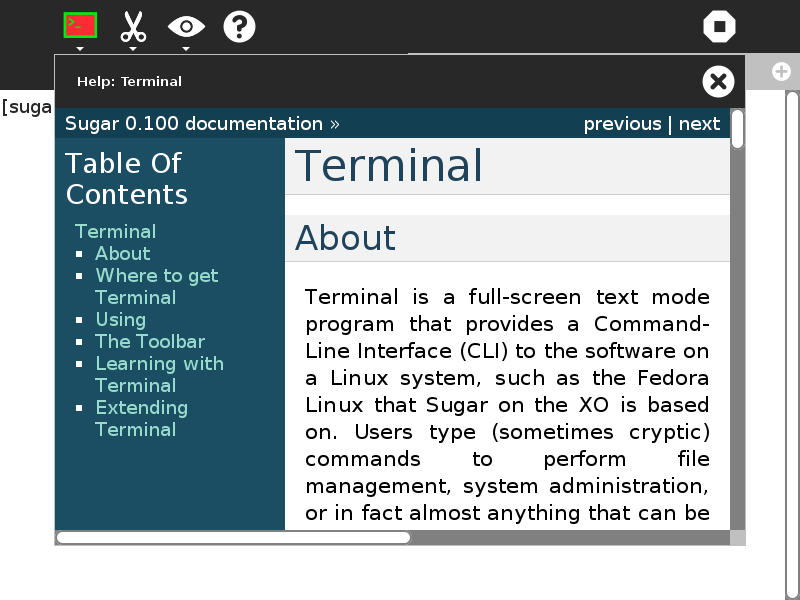
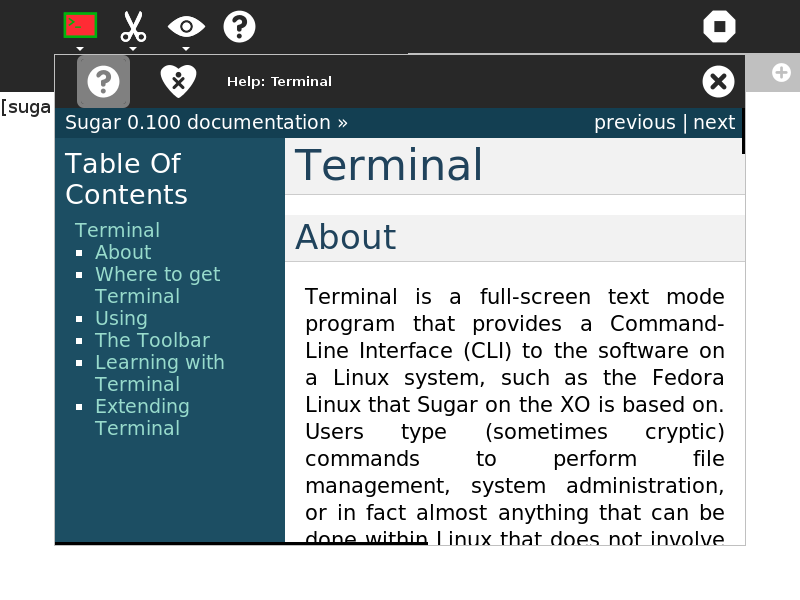
Add Social Help

diff --git a/source/index.rst b/source/index.rst
@@ -10,7 +10,7 @@ SoaS Loader Home Page and Index
 
 In this Activity we describe one way to load Sugar on to a USB Stick.
 
-The operating system software we are using is the Fedora Spin named **Sugar on a Stick**, or SoaS_ for short. This presentation is part tutorial, part demonstration. It is not necessary to be online to complete this tutorial. The tutorial contains some links like the one above, which, if you are online, will take you to useful pages on the internet. Use the **"Back button"** at the top of the screen to return to your previous page or use the **"Home button"** to return to this page.
+We are using the Fedora Spin named **Sugar on a Stick**, or SoaS_ for short. The tutorial contains some links like the one above, which, if you are online, will take you to useful pages on the internet. If using the Activity use the **Back button** at the top of the screen to return to your previous page or use the **Home button** to return to this page.
 
 Sugarlabs_ wiki is a source of more information about Sugar.
 
@@ -55,6 +55,7 @@ New to Sugar
     022.rst
     023.rst
     024.rst
+    024_1.rst
     025.rst
 
 Demonstration

diff --git a/source/002.rst b/source/002.rst
@@ -8,7 +8,7 @@ To make Sugar on a Stick by this method **you must be running a SoaS Live CD or 
 
 You will need a clean USB memory stick, to use as the target device. There is a suitable command for a 2 GB or a 4 GB stick.
 
-The Activity, SoaS Loader is started from the F3, Home View:
+The **Activity**, SoaS Loader, is started from the F3, Home View:
 
 .. image :: ../images/002a.png
 

diff --git a/source/024_1.rst b/source/024_1.rst
@@ -1,0 +1,11 @@
+===========
+Social Help
+===========
+
+Post questions on an open forum
+
+.. image :: ../images/024_1.png
+
+for developers or other users to answer.
+
+.. image :: ../images/024_2.png
